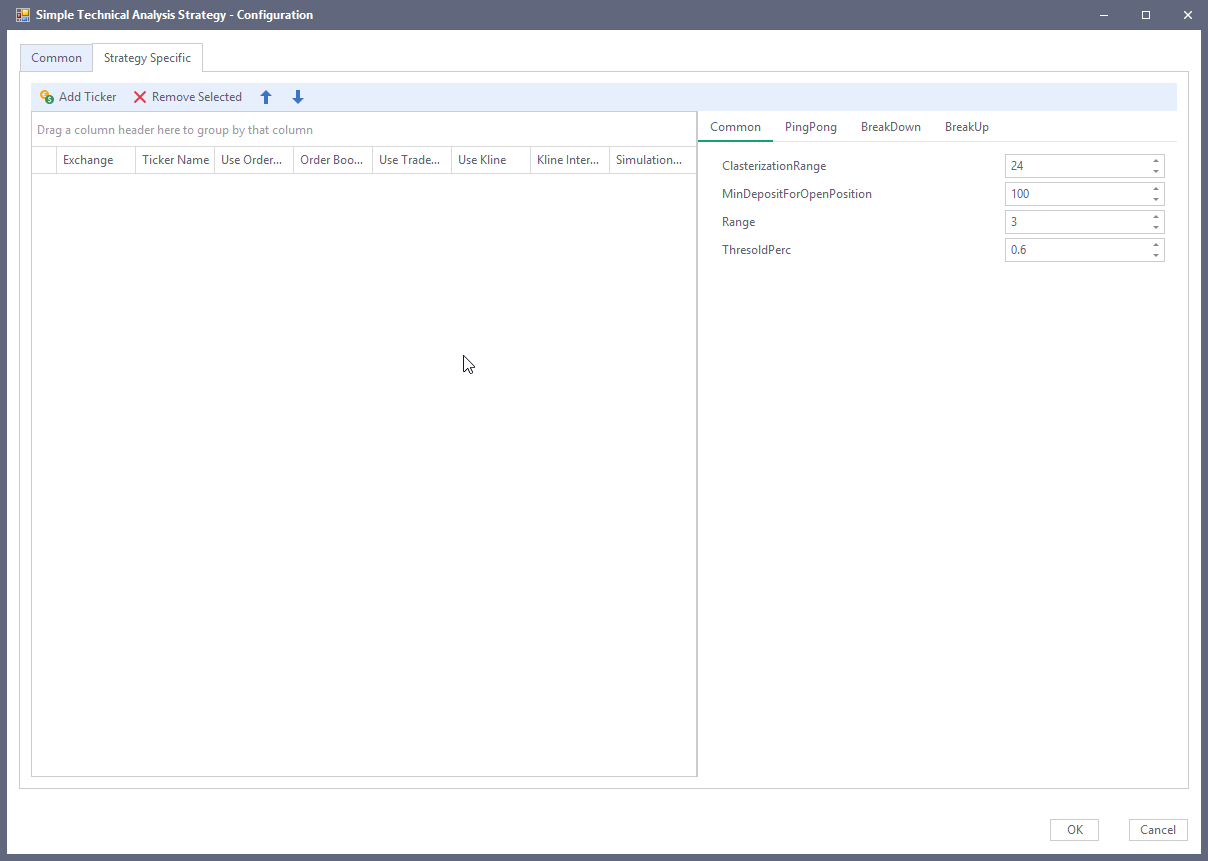
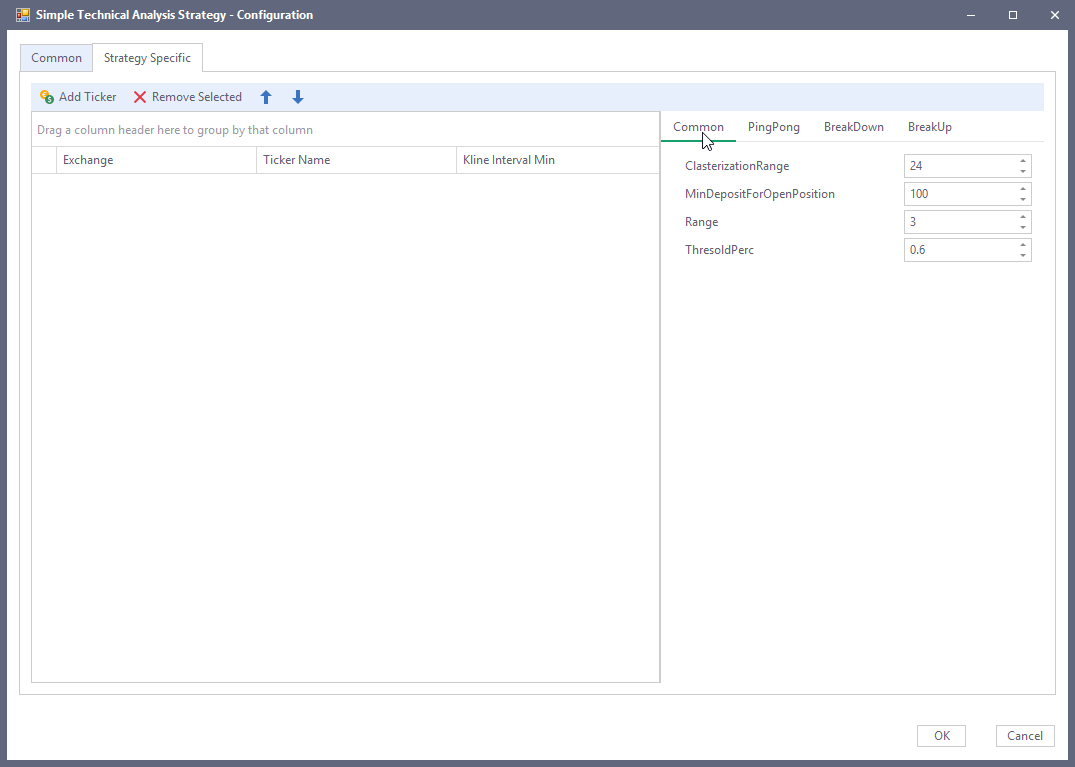
media

Changed region(s): [[0.0, 0.0, 1.0, 0.8996], [0.0, 0.9296, 0.9823, 1.0], [0.0307, 0.8996, 0.5833, 0.9296]]

diff --git a/Crypto.UI/Strategies/Custom/CustomStrategyConfigurationControl.Designer.cs b/Crypto.UI/Strategies/Custom/CustomStrategyConfigurationControl.Designer.cs
@@ -461,31 +461,31 @@
         private DevExpress.XtraBars.BarDockControl barDockControlRight;
         private DevExpress.XtraBars.BarButtonItem biAdd;
         private DevExpress.XtraBars.BarButtonItem biRemove;
-        private System.Windows.Forms.BindingSource tickerInputInfoBindingSource;
-        private System.Windows.Forms.BindingSource exchangeTickersBindingSource;
-        private System.Windows.Forms.BindingSource candleStickIntervalInfoBindingSource;
-        private DevExpress.XtraGrid.GridControl tickersGridControl;
-        private DevExpress.XtraGrid.Views.Grid.GridView gridView1;
-        private DevExpress.XtraGrid.Columns.GridColumn colExchange;
-        private DevExpress.XtraEditors.Repository.RepositoryItemComboBox rpiExchanges;
-        private DevExpress.XtraGrid.Columns.GridColumn colTicker;
-        private DevExpress.XtraGrid.Views.Grid.GridView repositoryItemGridLookUpEdit1View;
-        private DevExpress.XtraGrid.Columns.GridColumn colUseOrderBook;
-        private DevExpress.XtraGrid.Columns.GridColumn colUseTradeHistory;
-        private DevExpress.XtraGrid.Columns.GridColumn colUseKline;
-        private DevExpress.XtraGrid.Columns.GridColumn colKlineIntervalMin;
-        private DevExpress.XtraEditors.Repository.RepositoryItemLookUpEdit repositoryItemLookUpEdit1;
-        private DevExpress.XtraEditors.Repository.RepositoryItemGridLookUpEdit cbExchangeTickers;
-        private DevExpress.XtraGrid.Columns.GridColumn colMarketCurrency;
-        private DevExpress.XtraGrid.Columns.GridColumn colBaseCurrency;
-        private DevExpress.XtraGrid.Columns.GridColumn colMarketName;
-        private DevExpress.XtraGrid.Columns.GridColumn colSimulationDataFile;
-        private DevExpress.XtraEditors.Repository.RepositoryItemButtonEdit repositoryItemButtonEdit1;
+        protected System.Windows.Forms.BindingSource tickerInputInfoBindingSource;
+        protected System.Windows.Forms.BindingSource exchangeTickersBindingSource;
+        protected System.Windows.Forms.BindingSource candleStickIntervalInfoBindingSource;
+        protected DevExpress.XtraGrid.GridControl tickersGridControl;
+        protected DevExpress.XtraGrid.Views.Grid.GridView gridView1;
+        protected DevExpress.XtraGrid.Columns.GridColumn colExchange;
+        protected DevExpress.XtraEditors.Repository.RepositoryItemComboBox rpiExchanges;
+        protected DevExpress.XtraGrid.Columns.GridColumn colTicker;
+        protected DevExpress.XtraGrid.Views.Grid.GridView repositoryItemGridLookUpEdit1View;
+        protected DevExpress.XtraGrid.Columns.GridColumn colUseOrderBook;
+        protected DevExpress.XtraGrid.Columns.GridColumn colUseTradeHistory;
+        protected DevExpress.XtraGrid.Columns.GridColumn colUseKline;
+        protected DevExpress.XtraGrid.Columns.GridColumn colKlineIntervalMin;
+        protected DevExpress.XtraEditors.Repository.RepositoryItemLookUpEdit repositoryItemLookUpEdit1;
+        protected DevExpress.XtraEditors.Repository.RepositoryItemGridLookUpEdit cbExchangeTickers;
+        protected DevExpress.XtraGrid.Columns.GridColumn colMarketCurrency;
+        protected DevExpress.XtraGrid.Columns.GridColumn colBaseCurrency;
+        protected DevExpress.XtraGrid.Columns.GridColumn colMarketName;
+        protected DevExpress.XtraGrid.Columns.GridColumn colSimulationDataFile;
+        protected DevExpress.XtraEditors.Repository.RepositoryItemButtonEdit repositoryItemButtonEdit1;
         private DevExpress.XtraEditors.SidePanel sidePanel1;
-        private DevExpress.XtraVerticalGrid.PropertyGridControl propertyGridControl1;
+        protected DevExpress.XtraVerticalGrid.PropertyGridControl propertyGridControl1;
         private DevExpress.XtraBars.BarButtonItem biMoveUp;
         private DevExpress.XtraBars.BarButtonItem biMoveDown;
-        private DevExpress.XtraGrid.Columns.GridColumn colOrderBookDepth;
-        private DevExpress.XtraEditors.Repository.RepositoryItemSpinEdit repositoryItemSpinEdit1;
+        protected DevExpress.XtraGrid.Columns.GridColumn colOrderBookDepth;
+        protected DevExpress.XtraEditors.Repository.RepositoryItemSpinEdit repositoryItemSpinEdit1;
     }
 }

diff --git a/Crypto.UI/Strategies/StrategiesConfigurationManager.cs b/Crypto.UI/Strategies/StrategiesConfigurationManager.cs
@@ -39,7 +39,7 @@ namespace CryptoMarketClient.Strategies {
             Items.Add(new StrategyConfigurationInfo() { StrategyType = typeof(CustomTickerStrategy), ConfigurationFormType = typeof(CustomStrategyConfigurationControl), DataFormType = typeof(StrategyDataForm) });
             Items.Add(new StrategyConfigurationInfo() { StrategyType = typeof(TriplePairStrategy), ConfigurationFormType = typeof(TriplePairStrategyConfigurationControl), DataFormType = typeof(StrategyDataForm) });
             Items.Add(new StrategyConfigurationInfo() { StrategyType = typeof(MarketMakingStrategy), ConfigurationFormType = typeof(CustomStrategyConfigurationControl), DataFormType = typeof(StrategyDataForm) });
-            Items.Add(new StrategyConfigurationInfo() { StrategyType = typeof(TaSimpleStrategy), ConfigurationFormType = typeof(RedWaterfallConfigurationControl), DataFormType = typeof(RedWaterfallStrategyDataForm) });
+            Items.Add(new StrategyConfigurationInfo() { StrategyType = typeof(TaSimpleStrategy), ConfigurationFormType = typeof(TaSimpleStrategyConfigurationControl), DataFormType = typeof(RedWaterfallStrategyDataForm) });
             //Items.Add(new StrategyConfigurationInfo() { StrategyType = typeof(WalletInvestorForecastStrategy), ConfigurationFormType = typeof(WalletInvestorStrategyConfigControl), DataFormType = typeof(WalletInvestorDataForm) });
         }
         public void Add(StrategyConfigurationInfo info) {

diff --git a/Crypto.UI/Strategies/Custom/CustomStrategyConfigurationControl.cs b/Crypto.UI/Strategies/Custom/CustomStrategyConfigurationControl.cs
@@ -119,8 +119,12 @@ namespace CryptoMarketClient.Strategies.Custom {
             info.TickerName = Convert.ToString(((GridLookUpEdit)sender).EditValue);
         }
 
+        protected virtual TickerInputInfo CreateDefaultTickerInputInfo() {
+            return new TickerInputInfo();
+        }
+
         private void biAdd_ItemClick(object sender, DevExpress.XtraBars.ItemClickEventArgs e) {
-            ((CustomTickerStrategy)Strategy).StrategyInfo.Tickers.Add(new TickerInputInfo());
+            ((CustomTickerStrategy)Strategy).StrategyInfo.Tickers.Add(CreateDefaultTickerInputInfo());
             this.gridView1.RefreshData();
         }
 
